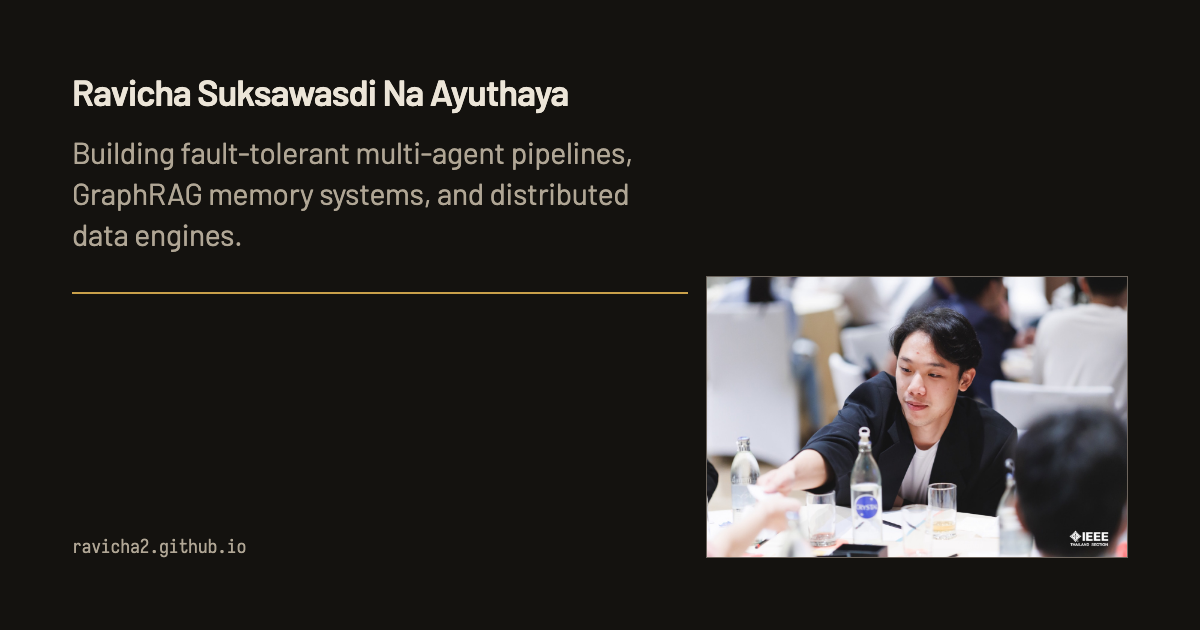
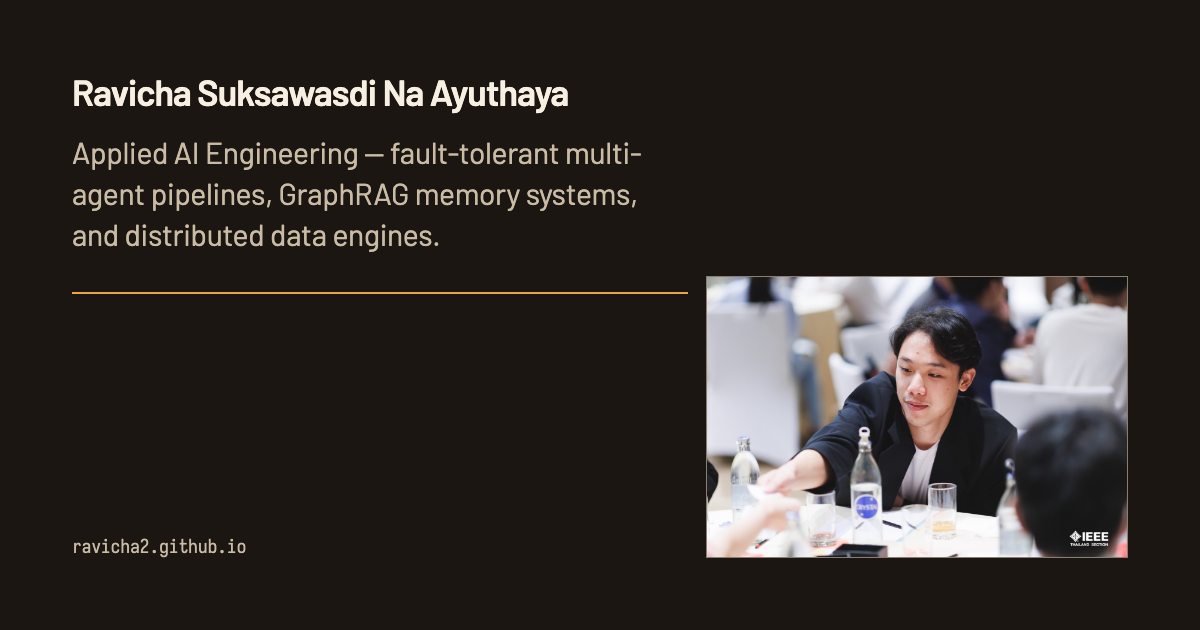
feat(seo): name the real discipline on the homepage
The audited query is "Ravicha Suksawasdi Na Ayuthaya Portfolio AI
engineering", but the homepage title said "Portfolio & Systems
Engineering" and the phrase "AI engineering" appeared nowhere on the
page, even though llms.txt already described the author as an "Applied
AI & Backend Systems Engineer" and the Person JSON-LD already listed
"Applied AI" under knowsAbout. The homepage under-described the field
the rest of the site states.

State the discipline once, in profile.discipline ("Applied AI
Engineering"), and carry it through every homepage surface:

- title: "Ravicha Suksawasdi Na Ayuthaya | Applied AI Engineering"
- meta/og/twitter description and the OG card source derive from
  profile.headline, which now opens with the discipline
- the single h1 names the discipline as visually-hidden text, so the
  rendered heading is unchanged but a crawler that reads only the
  heading learns the field
- the prerendered ProfilePage JSON-LD and the static index.html copy
  keep the same name; the Person jobTitle is unchanged and already
  backs the claim

Also record the fresh 2026-10-08 curl probes in ADR 0004, after the
author re-confirmed Option 1 ("Keep GitHub Pages - accept items 1-3"),
so the accepted decision rests on current measurements.

Tests pin the title/description on every homepage surface, the h1
discipline, and the ProfilePage/Person JSON-LD. 33 files / 307 tests
pass.

diff --git a/index.html b/index.html
@@ -3,8 +3,8 @@
   <head>
     <meta charset="UTF-8" />
     <meta name="viewport" content="width=device-width, initial-scale=1.0" />
-    <title>Ravicha Suksawasdi Na Ayuthaya | Portfolio &amp; Systems Engineering</title>
-    <meta name="description" content="Building fault-tolerant multi-agent pipelines, GraphRAG memory systems, and distributed data engines." />
+    <title>Ravicha Suksawasdi Na Ayuthaya | Applied AI Engineering</title>
+    <meta name="description" content="Applied AI Engineering — fault-tolerant multi-agent pipelines, GraphRAG memory systems, and distributed data engines." />
     <meta name="author" content="Ravicha Suksawasdi Na Ayuthaya (Palm)" />
     <meta name="theme-color" content="#1c1613" />
     <!-- Preload the faces the first viewport draws with, so the bench is already
@@ -30,19 +30,19 @@
     <meta property="og:type" content="profile" />
     <meta property="og:locale" content="en_US" />
     <meta property="og:url" content="https://ravicha2.github.io/" />
-    <meta property="og:title" content="Ravicha Suksawasdi Na Ayuthaya | Portfolio &amp; Systems Engineering" />
-    <meta property="og:description" content="Building fault-tolerant multi-agent pipelines, GraphRAG memory systems, and distributed data engines." />
+    <meta property="og:title" content="Ravicha Suksawasdi Na Ayuthaya | Applied AI Engineering" />
+    <meta property="og:description" content="Applied AI Engineering — fault-tolerant multi-agent pipelines, GraphRAG memory systems, and distributed data engines." />
     <meta property="og:image" content="https://ravicha2.github.io/og-image.png" />
     <meta property="og:image:width" content="1200" />
     <meta property="og:image:height" content="630" />
-    <meta property="og:image:alt" content="Ravicha Suksawasdi Na Ayuthaya, with the headline: Building fault-tolerant multi-agent pipelines, GraphRAG memory systems, and distributed data engines." />
+    <meta property="og:image:alt" content="Ravicha Suksawasdi Na Ayuthaya, with the headline: Applied AI Engineering — fault-tolerant multi-agent pipelines, GraphRAG memory systems, and distributed data engines." />
 
     <!-- Twitter Card Metadata -->
     <meta name="twitter:card" content="summary_large_image" />
-    <meta name="twitter:title" content="Ravicha Suksawasdi Na Ayuthaya | Portfolio &amp; Systems Engineering" />
-    <meta name="twitter:description" content="Building fault-tolerant multi-agent pipelines, GraphRAG memory systems, and distributed data engines." />
+    <meta name="twitter:title" content="Ravicha Suksawasdi Na Ayuthaya | Applied AI Engineering" />
+    <meta name="twitter:description" content="Applied AI Engineering — fault-tolerant multi-agent pipelines, GraphRAG memory systems, and distributed data engines." />
     <meta name="twitter:image" content="https://ravicha2.github.io/og-image.png" />
-    <meta name="twitter:image:alt" content="Ravicha Suksawasdi Na Ayuthaya, with the headline: Building fault-tolerant multi-agent pipelines, GraphRAG memory systems, and distributed data engines." />
+    <meta name="twitter:image:alt" content="Ravicha Suksawasdi Na Ayuthaya, with the headline: Applied AI Engineering — fault-tolerant multi-agent pipelines, GraphRAG memory systems, and distributed data engines." />
 
     <!-- Pre-rendered Baseline JSON-LD for Headless Crawlers -->
     <script type="application/ld+json">
@@ -98,7 +98,7 @@
             "@type": "ProfilePage",
             "@id": "https://ravicha2.github.io/#profilepage",
             "url": "https://ravicha2.github.io/",
-            "name": "Ravicha Suksawasdi Na Ayuthaya | Portfolio & Systems Engineering",
+            "name": "Ravicha Suksawasdi Na Ayuthaya | Applied AI Engineering",
             "mainEntity": {
               "@id": "https://ravicha2.github.io/#person"
             }

diff --git a/tests/seo/index-html-meta.test.ts b/tests/seo/index-html-meta.test.ts
@@ -39,11 +39,38 @@ describe('Static Baseline HTML Meta & OpenGraph (index.html)', () => {
     expect(content).toContain('<meta property="og:site_name" content="Ravicha Suksawasdi Na Ayuthaya Portfolio" />');
     expect(content).toContain('<meta property="og:type" content="profile" />');
     expect(content).toContain('<meta property="og:url" content="https://ravicha2.github.io/" />');
-    expect(content).toContain('<meta property="og:title" content="Ravicha Suksawasdi Na Ayuthaya | Portfolio &amp; Systems Engineering" />');
 
     // Twitter
     expect(content).toContain('<meta name="twitter:card" content="summary_large_image" />');
-    expect(content).toContain('<meta name="twitter:title" content="Ravicha Suksawasdi Na Ayuthaya | Portfolio &amp; Systems Engineering" />');
+
+    // The og/twitter titles are the route's own title, derived rather than retyped,
+    // so the static head cannot keep describing a page the SPA has stopped claiming.
+    const title = getRouteMeta('/').title;
+    expect(content).toContain(`<meta property="og:title" content="${title}" />`);
+    expect(content).toContain(`<meta name="twitter:title" content="${title}" />`);
+  });
+
+  it('names the real discipline on every homepage surface, not just "Portfolio"', () => {
+    const content = read('index.html');
+    const title = getRouteMeta('/').title;
+    const person = JSON.parse(
+      content.match(/<script type="application\/ld\+json">([\s\S]*?)<\/script>/)![1]
+    )['@graph'].find((item: any) => item['@type'] === 'Person');
+    const profilePage = JSON.parse(
+      content.match(/<script type="application\/ld\+json">([\s\S]*?)<\/script>/)![1]
+    )['@graph'].find((item: any) => item['@type'] === 'ProfilePage');
+
+    // The audited query is "…Portfolio AI engineering": the title has to carry both
+    // the full name and the discipline in one honest phrase, and the description and
+    // H1 (asserted in HomeView.test) have to say the same thing.
+    expect(title).toContain(profile.name);
+    expect(title).toContain(profile.discipline);
+    expect(content).toContain(`<meta name="description" content="${profile.headline}" />`);
+    expect(profile.headline).toContain(profile.discipline);
+    expect(profilePage.name).toBe(title);
+    // The discipline is not a claim invented for the title: the Person JSON-LD
+    // already states the jobTitle the profile carries.
+    expect(person.jobTitle).toBe(profile.title);
   });
 
   it('keeps theme-color bound to --bench rather than to a literal', () => {

diff --git a/src/data/profile.ts b/src/data/profile.ts
@@ -1,5 +1,14 @@
 import { Profile } from './types';
 
+/**
+ * The discipline, stated once. This is the noun phrase the homepage title, meta
+ * description and h1 all carry, so no surface can name a different field. It is the
+ * honest short form of `title` below, and it is what the rest of the site — llms.txt
+ * and the Person JSON-LD's `knowsAbout` — already said while the homepage title
+ * still said "Portfolio & Systems Engineering".
+ */
+const DISCIPLINE = 'Applied AI Engineering';
+
 export const profile: Profile = {
   // The surname is "Suksawasdi Na Ayuthaya", not "Suksawasdi" — the shorter form
   // used to sit here and in nine hand-written titles across the site, which is how
@@ -9,7 +18,8 @@ export const profile: Profile = {
   // Matches the jobTitle in index.html's JSON-LD. Two titles for the same person
   // is one claim too many.
   title: 'Applied AI & Backend Systems Engineer',
-  headline: 'Building fault-tolerant multi-agent pipelines, GraphRAG memory systems, and distributed data engines.',
+  discipline: DISCIPLINE,
+  headline: `${DISCIPLINE} — fault-tolerant multi-agent pipelines, GraphRAG memory systems, and distributed data engines.`,
   status: 'Master of IT at UNSW Sydney (WAM 83 / Distinction, graduating Dec 2026) · Open to full-time Applied AI & Backend Systems roles.',
   location: 'Sydney, Australia',
   email: 'palm.ravicha@outlook.com',

diff --git a/tests/seo/seo-head.test.tsx b/tests/seo/seo-head.test.tsx
@@ -26,6 +26,21 @@ describe('Dynamic SEOHead & JSON-LD Structured Data Generator', () => {
     expect(person.alternateName).toBe('Palm');
   });
 
+  it('makes the root route and its ProfilePage name the real discipline', () => {
+    const schema = generateJsonLdForRoute('/');
+    const profilePage = schema['@graph'].find((item: any) => item['@type'] === 'ProfilePage');
+    const person = schema['@graph'].find((item: any) => item['@type'] === 'Person');
+
+    // The page entity is named the same way as the route title, and the title states
+    // the discipline rather than the container the material is stored in.
+    expect(profilePage.name).toBe(getRouteMeta('/').title);
+    expect(profilePage.name).toContain(profile.discipline);
+    // The discipline is backed by the jobTitle and skills the Person node already
+    // carries, so the title is a restatement, not a new claim.
+    expect(person.jobTitle).toBe(profile.title);
+    expect(person.knowsAbout).toContain('Applied AI');
+  });
+
   it('generates valid SoftwareSourceCode JSON-LD for project detail route "/projects/shepherd"', () => {
     const schema = generateJsonLdForRoute('/projects/shepherd');
     const software = schema['@graph'].find((item: any) => item['@type'] === 'SoftwareSourceCode');

diff --git a/tests/views/HomeView.test.tsx b/tests/views/HomeView.test.tsx
@@ -24,6 +24,15 @@ describe('HomeView Component', () => {
       expect(screen.getAllByRole('heading', { level: 1 })).toHaveLength(1);
     });
 
+    it('names the discipline in the one h1 as well as the person', () => {
+      renderHome();
+      const h1 = screen.getByRole('heading', { level: 1 });
+      // The discipline rides in the heading for a crawler that reads only the
+      // heading; it is the same field the title, description and JSON-LD carry, so
+      // the page cannot describe a different field depending on where you look.
+      expect(h1).toHaveTextContent(profile.discipline);
+    });
+
     it('renders the role under the name rather than repeating the name', () => {
       renderHome();
       expect(screen.getByRole('heading', { level: 1 })).toHaveTextContent(profile.name);

diff --git a/src/views/HomeView.tsx b/src/views/HomeView.tsx
@@ -47,6 +47,11 @@ export const HomeView: React.FC = () => {
             className="text-[clamp(1.7rem,4.2vw,3rem)] font-semibold leading-[1.08] tracking-[-0.03em] text-pretty"
           >
             {nameHead} <span className="whitespace-nowrap">{nameTail}</span>
+            {/* The one h1 names the discipline as well as the person, so a crawler
+                that reads only the heading learns what the page is about. Visually
+                hidden rather than shown: the role already appears on the line below,
+                and on screen the heading's job is the name. */}
+            <span className="sr-only"> — {profile.discipline}</span>
           </h1>
 
           {/* The name is the heading, so this line carries the nickname and the role

diff --git a/src/utils/seo.ts b/src/utils/seo.ts
@@ -88,7 +88,12 @@ export function getRouteMeta(pathname: string): RouteMeta {
 
   if (path === '/') {
     return {
-      title: `${NAME} | Portfolio & Systems Engineering`,
+      // The name first — a crawler matches the person on it — then the discipline
+      // the whole site is about, not the container it sits in. "Portfolio &
+      // Systems Engineering" named the format and dropped the field that llms.txt
+      // ("Applied AI & Backend Systems Engineer") and the Person JSON-LD
+      // (`knowsAbout: "Applied AI"`) already state.
+      title: `${NAME} | ${profile.discipline}`,
       description: profile.headline,
       canonicalUrl: canonicalUrlFor(path),
       ogType: 'profile',

diff --git a/src/data/types.ts b/src/data/types.ts
@@ -17,6 +17,13 @@ export interface Profile {
   name: string;
   preferredName: string;
   title: string;
+  /**
+   * The discipline this site is about, as the noun phrase the homepage title, meta
+   * description and h1 all use. Declared once so those surfaces cannot describe
+   * different fields: the site previously said "Portfolio & Systems Engineering" in
+   * its title while llms.txt and the Person JSON-LD already said "Applied AI".
+   */
+  discipline: string;
   headline: string;
   status: string;
   location: string;

diff --git a/scripts/og-card.html b/scripts/og-card.html
@@ -73,8 +73,8 @@
   <body>
     <div class="name">Ravicha Suksawasdi Na Ayuthaya</div>
     <p class="headline">
-      Building fault-tolerant multi-agent pipelines, GraphRAG memory systems, and distributed data
-      engines.
+      Applied AI Engineering — fault-tolerant multi-agent pipelines, GraphRAG memory systems, and
+      distributed data engines.
     </p>
     <div class="rule"></div>
     <div class="url">ravicha2.github.io</div>

diff --git a/docs/adr/0004-accept-html-404s-on-static-hosting.md b/docs/adr/0004-accept-html-404s-on-static-hosting.md
@@ -46,6 +46,40 @@ We adopt **Option 1: accept the limitation and state it.**
 Items 1 and 4 — and the `Vary: Accept` variant of item 5 — are recorded as **knowingly
 unreachable on this host**, not as work still waiting to be done.
 
+## Evidence (re-verified 2026-10-08)
+The author was asked again whether to reverse this decision to recover audit items 1-3
+and chose "Keep GitHub Pages — accept items 1-3". The probes below are the basis for
+that, re-run on 2026-10-08, so the decision rests on current measurements rather than
+the assertion in the Context section above. Each block is the raw status line,
+`content-type` and `vary` header from the command named above it.
+
+```
+$ curl -sS -L -i -H 'Accept: text/markdown' https://ravicha2.github.io/__probe-does-not-exist
+HTTP/2 404
+content-type: text/html; charset=utf-8
+vary: Accept-Encoding
+```
+
+```
+$ curl -sS -L -i -H 'Accept: application/json' https://ravicha2.github.io/__probe-does-not-exist
+HTTP/2 404
+content-type: text/html; charset=utf-8
+vary: Accept-Encoding
+```
+
+```
+$ curl -sS -L -i -H 'Accept: text/markdown' https://ravicha2.github.io/
+HTTP/2 200
+content-type: text/html; charset=utf-8
+vary: Accept-Encoding
+```
+
+An unmatched path returns `404 text/html` for **both** `Accept: text/markdown` and
+`Accept: application/json`, so item 1's markdown body and item 4's JSON envelope are
+still unreachable. The homepage returns `200 text/html` for `Accept: text/markdown`,
+so item 5's `Vary: Accept` variant is unreachable too. The only `vary` value served is
+`Accept-Encoding`, which no response header the origin can set will change.
+
 ## Rejected alternatives
 **Option 2 — an edge layer.** Rejected. It would recover items 1 and 4 (and item 5's
 `Vary` variant) at the cost of a second deployment target in front of the first, a
